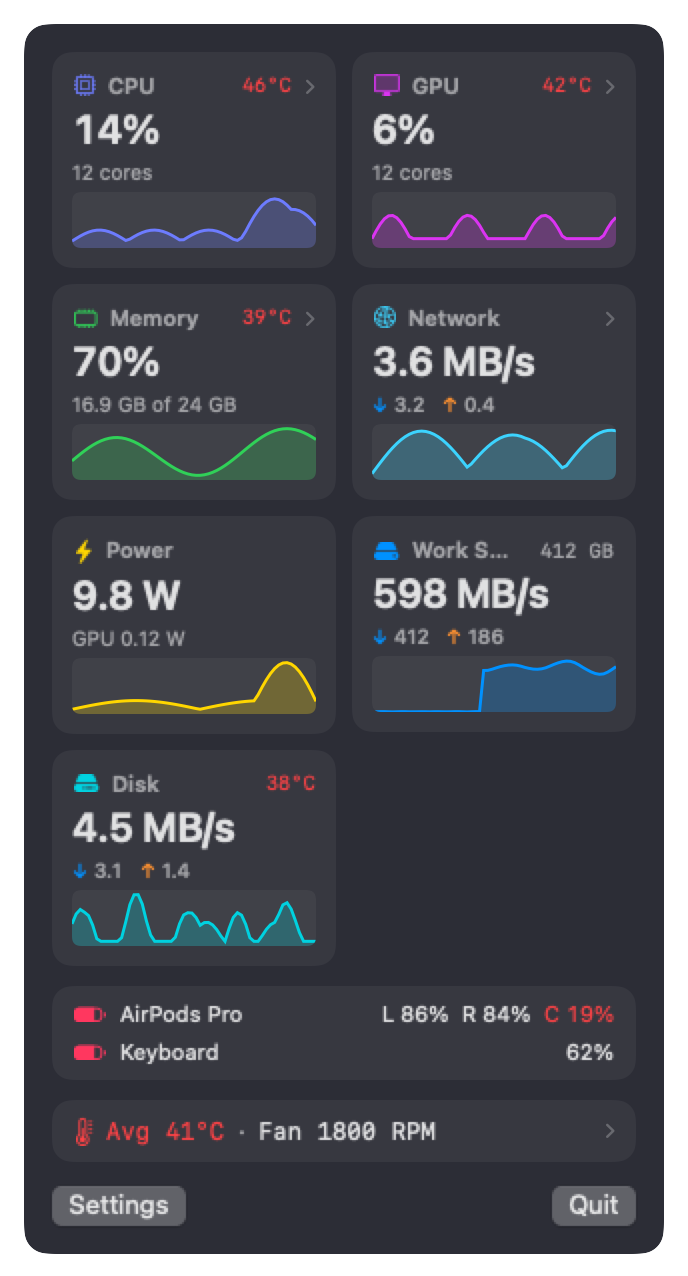
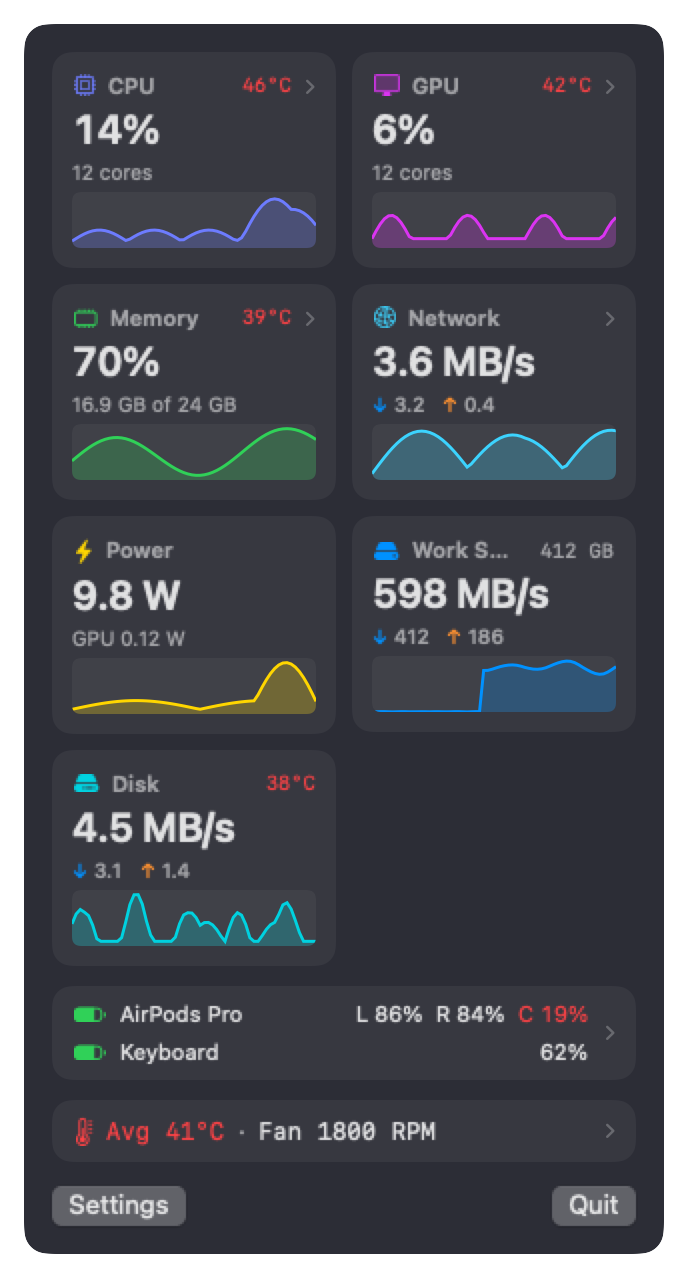
Back to the simple version: keep Network (active only), Batteries with arrow, Logitech receiver, certificate signing; Appearance experiments saved on branch appearance-experiments

Changed region(s): [[0.5494, 0.7641, 0.9157, 0.8558], [0.0916, 0.7641, 0.1526, 0.8558]]

diff --git a/Sources/SystemMonitorCore/LogitechReceiver.swift b/Sources/SystemMonitorCore/LogitechReceiver.swift
@@ -1,0 +1,117 @@
+import Foundation
+import IOKit.hid
+
+/// Battery of Logitech mice and keyboards that talk through a Logitech USB receiver (Unifying, Bolt,
+/// Lightspeed), read with Logitech's HID++ 2.0 protocol over the receiver's own interface. macOS does
+/// not list these batteries anywhere else. Opt-in (Settings > Display), because it opens the receiver.
+/// Each read pings the six pairing slots and asks a present device for its battery; it takes about a
+/// second, so call it from a background queue, never from the sampler tick.
+public enum LogitechReceiver {
+    /// Pure and testable: battery percent from a cell voltage in millivolts (single cell Li-ion curve).
+    public static func percent(fromMillivolts mv: Int) -> Int {
+        let curve: [(mv: Int, pct: Int)] = [(4186, 100), (4067, 90), (3989, 80), (3922, 70), (3859, 60),
+                                            (3811, 50), (3778, 40), (3754, 30), (3729, 20), (3691, 10),
+                                            (3615, 5), (3500, 0)]
+        if mv >= curve[0].mv { return 100 }
+        if mv <= curve[curve.count - 1].mv { return 0 }
+        for i in 1..<curve.count where mv >= curve[i].mv {
+            let hi = curve[i - 1], lo = curve[i]
+            return lo.pct + (hi.pct - lo.pct) * (mv - lo.mv) / (hi.mv - lo.mv)
+        }
+        return 0
+    }
+
+    /// What the last read did, for diagnosing a missing device: "open ok, 1 receiver, 1 device".
+    public nonisolated(unsafe) static var lastStatus = "not read yet"
+
+    private final class Inbox { var reports: [[UInt8]] = [] }
+
+    public static func batteries() -> [DeviceBattery] {
+        let manager = IOHIDManagerCreate(kCFAllocatorDefault, IOOptionBits(kIOHIDOptionsTypeNone))
+        IOHIDManagerSetDeviceMatching(manager, [kIOHIDVendorIDKey: 0x046D] as CFDictionary)
+        IOHIDManagerScheduleWithRunLoop(manager, CFRunLoopGetCurrent(), CFRunLoopMode.defaultMode.rawValue)
+        let opened = IOHIDManagerOpen(manager, IOOptionBits(kIOHIDOptionsTypeNone))
+        guard opened == kIOReturnSuccess else {
+            lastStatus = String(format: "open failed 0x%08x (macOS is probably blocking input access)", opened)
+            return []
+        }
+        guard let devices = IOHIDManagerCopyDevices(manager) as? Set<IOHIDDevice> else {
+            lastStatus = "open ok, no Logitech devices"
+            return []
+        }
+        var receivers = 0
+        defer {
+            IOHIDManagerUnscheduleFromRunLoop(manager, CFRunLoopGetCurrent(), CFRunLoopMode.defaultMode.rawValue)
+            IOHIDManagerClose(manager, IOOptionBits(kIOHIDOptionsTypeNone))
+        }
+
+        var out: [DeviceBattery] = []
+        for device in devices {
+            let page = IOHIDDeviceGetProperty(device, kIOHIDPrimaryUsagePageKey as CFString) as? Int
+            let product = IOHIDDeviceGetProperty(device, kIOHIDProductKey as CFString) as? String
+            guard page == 0xFF00, product?.contains("Receiver") == true else { continue }
+
+            receivers += 1
+            let inbox = Inbox()
+            let size = max((IOHIDDeviceGetProperty(device, kIOHIDMaxInputReportSizeKey as CFString) as? Int) ?? 20, 32)
+            let buffer = UnsafeMutablePointer<UInt8>.allocate(capacity: size)
+            defer { buffer.deallocate() }
+            let context = Unmanaged.passUnretained(inbox).toOpaque()
+            IOHIDDeviceRegisterInputReportCallback(device, buffer, size, { context, _, _, _, id, report, length in
+                guard let context else { return }
+                var bytes = [UInt8](UnsafeBufferPointer(start: report, count: length))
+                if bytes.first.map({ UInt32($0) }) != id { bytes.insert(UInt8(truncatingIfNeeded: id), at: 0) }
+                Unmanaged<Inbox>.fromOpaque(context).takeUnretainedValue().reports.append(bytes)
+            }, context)
+            IOHIDDeviceScheduleWithRunLoop(device, CFRunLoopGetCurrent(), CFRunLoopMode.defaultMode.rawValue)
+
+            /// Sends a 7 byte HID++ request and returns the matching answer (nil for errors and silence).
+            func ask(_ slot: UInt8, _ index: UInt8, _ function: UInt8, _ params: [UInt8] = []) -> [UInt8]? {
+                inbox.reports = []
+                var report: [UInt8] = [0x10, slot, index, (function << 4) | 0x05] + params
+                while report.count < 7 { report.append(0) }
+                _ = IOHIDDeviceSetReport(device, kIOHIDReportTypeOutput, 0x10, &report, report.count)
+                CFRunLoopRunInMode(.defaultMode, 0.25, false)
+                if ProcessInfo.processInfo.environment["LANES_DEBUG_HID"] != nil {
+                    print("ask slot \(slot) idx \(index) fn \(function): got \(inbox.reports.map { $0.prefix(8).map { String(format: "%02x", $0) }.joined() })")
+                }
+                return inbox.reports.first { $0.count > 6 && $0[1] == slot && $0[2] == index && $0[3] == report[3] }
+            }
+
+            for slot in UInt8(1)...UInt8(6) {
+                // An empty slot answers with an error, a present device answers the ping.
+                // (One retry: the receiver can be slow to answer the first request after it was idle.)
+                guard ask(slot, 0x00, 0x01, [0x00, 0x00, 0xAA]) != nil || ask(slot, 0x00, 0x01, [0x00, 0x00, 0xAA]) != nil
+                else { continue }
+                // Feature indexes: ask the root feature where each feature lives.
+                func feature(_ id: UInt16) -> UInt8? {
+                    guard let r = ask(slot, 0x00, 0x00, [UInt8(id >> 8), UInt8(id & 0xFF)]), r[4] != 0 else { return nil }
+                    return r[4]
+                }
+                var percent: Int?
+                if let unified = feature(0x1004), let r = ask(slot, unified, 0x01) { percent = Int(r[4]) }
+                else if let level = feature(0x1000), let r = ask(slot, level, 0x00) { percent = Int(r[4]) }
+                else if let voltage = feature(0x1001), let r = ask(slot, voltage, 0x00) {
+                    percent = Self.percent(fromMillivolts: Int(r[4]) << 8 | Int(r[5]))
+                }
+                guard let percent else { continue }
+                var name = "Logitech device"
+                if let nameFeature = feature(0x0005), let count = ask(slot, nameFeature, 0x00), count[4] > 0 {
+                    var text = [UInt8]()
+                    var offset: UInt8 = 0
+                    while offset < count[4], let chunk = ask(slot, nameFeature, 0x01, [offset]) {
+                        let part = Array(chunk[4...].prefix { $0 != 0 })
+                        if part.isEmpty { break }
+                        text += part
+                        offset = UInt8(min(255, text.count))
+                    }
+                    if !text.isEmpty { name = String(decoding: text, as: UTF8.self) }
+                }
+                out.append(DeviceBattery(name: name, parts: [("", min(100, max(0, percent)))]))
+            }
+            IOHIDDeviceUnscheduleFromRunLoop(device, CFRunLoopGetCurrent(), CFRunLoopMode.defaultMode.rawValue)
+        }
+        lastStatus = "open ok, \(receivers) receiver\(receivers == 1 ? "" : "s"), \(out.count) device\(out.count == 1 ? "" : "s") answered"
+        return out
+    }
+}

diff --git a/Sources/powermon/LogitechProbe.swift b/Sources/powermon/LogitechProbe.swift
@@ -1,0 +1,77 @@
+import Foundation
+import IOKit.hid
+
+// powermon --logitech: tries to read the battery of Logitech mice and keyboards that talk through a
+// Logitech USB receiver (Unifying, Bolt, Lightspeed) with Logitech's HID++ protocol.
+// This is a test spike: it only prints what it finds.
+
+private var received: [[UInt8]] = []
+
+private let inputCallback: IOHIDReportCallback = { _, _, _, _, reportID, report, length in
+    var bytes = [UInt8](UnsafeBufferPointer(start: report, count: length))
+    if bytes.first.map({ UInt32($0) }) != reportID { bytes.insert(UInt8(truncatingIfNeeded: reportID), at: 0) }
+    received.append(bytes)
+}
+
+func runLogitechProbe() {
+    let manager = IOHIDManagerCreate(kCFAllocatorDefault, IOOptionBits(kIOHIDOptionsTypeNone))
+    IOHIDManagerSetDeviceMatching(manager, [kIOHIDVendorIDKey: 0x046D] as CFDictionary)
+    IOHIDManagerScheduleWithRunLoop(manager, CFRunLoopGetCurrent(), CFRunLoopMode.defaultMode.rawValue)
+    let openResult = IOHIDManagerOpen(manager, IOOptionBits(kIOHIDOptionsTypeNone))
+    print("IOHIDManagerOpen:", String(format: "0x%08x", openResult), openResult == kIOReturnSuccess ? "ok" : "FAILED")
+    guard let devices = IOHIDManagerCopyDevices(manager) as? Set<IOHIDDevice> else { print("no devices"); return }
+
+    func prop(_ d: IOHIDDevice, _ key: String) -> Any? { IOHIDDeviceGetProperty(d, key as CFString) }
+    // HID++ interfaces: vendor usage pages 0xFF00 (receiver and USB devices) or 0xFF43 (BLE).
+    let hidpp = devices.filter {
+        let page = (prop($0, kIOHIDPrimaryUsagePageKey) as? Int) ?? 0
+        return page == 0xFF00 || page == 0xFF43
+    }
+    for d in hidpp {
+        print("HID++ interface:", prop(d, kIOHIDProductKey) ?? "?",
+              "page", String(format: "0x%X", (prop(d, kIOHIDPrimaryUsagePageKey) as? Int) ?? 0),
+              "usage", prop(d, kIOHIDPrimaryUsageKey) ?? "?",
+              "transport", prop(d, kIOHIDTransportKey) ?? "?",
+              "maxIn", prop(d, kIOHIDMaxInputReportSizeKey) ?? "?")
+    }
+
+    for device in hidpp {
+        guard (prop(device, kIOHIDProductKey) as? String)?.contains("Receiver") == true else { continue }
+        let maxIn = (prop(device, kIOHIDMaxInputReportSizeKey) as? Int) ?? 20
+        let buffer = UnsafeMutablePointer<UInt8>.allocate(capacity: max(maxIn, 32))
+        IOHIDDeviceRegisterInputReportCallback(device, buffer, max(maxIn, 32), inputCallback, nil)
+        IOHIDDeviceScheduleWithRunLoop(device, CFRunLoopGetCurrent(), CFRunLoopMode.defaultMode.rawValue)
+
+        func send(_ device: IOHIDDevice, _ bytes: [UInt8]) -> [UInt8]? {
+            received = []
+            var report = bytes
+            _ = IOHIDDeviceSetReport(device, kIOHIDReportTypeOutput, CFIndex(bytes[0]), &report, report.count)
+            CFRunLoopRunInMode(.defaultMode, 0.4, false)
+            return received.first { $0.count > 4 && $0[1] == bytes[1] && $0[2] != 0x8f && $0[3] != 0x8f }
+        }
+        func hex(_ b: [UInt8]) -> String { b.map { String(format: "%02x", $0) }.joined(separator: " ") }
+
+        for slot in 1...6 {
+            // HID++ 2.0 ping first: slots with no device answer with an error (0x8f).
+            guard let ping = send(device, [0x10, UInt8(slot), 0x00, 0x15, 0x00, 0x00, 0xAA]), ping.count > 4, ping[2] == 0x00 else { continue }
+            print("slot \(slot): device answers HID++ \(ping[4]).\(ping[5])")
+            // Which feature index is the battery? Try unified battery (0x1004), battery level (0x1000), voltage (0x1001).
+            for (feature, name) in [(UInt16(0x1004), "unified battery"), (0x1000, "battery level"), (0x1001, "battery voltage")] {
+                guard let r = send(device, [0x10, UInt8(slot), 0x00, 0x05, UInt8(feature >> 8), UInt8(feature & 0xFF), 0x00]),
+                      r.count > 4, r[2] == 0x00, r[4] != 0 else { continue }
+                let index = r[4]
+                // Function 1 (getStatus) of unified battery; function 0 of battery level.
+                let function: UInt8 = feature == 0x1004 ? 0x15 : 0x05
+                if let status = send(device, [0x10, UInt8(slot), index, function, 0x00, 0x00, 0x00]), status.count > 6 {
+                    print("  \(name) (feature index \(index)): \(hex(status))")
+                    switch feature {
+                    case 0x1004, 0x1000: print("  -> battery \(status[4])%")
+                    default: print("  -> voltage \(Int(status[4]) << 8 | Int(status[5])) mV")
+                    }
+                    break
+                }
+            }
+        }
+    }
+    print("done (if every send failed or nothing answered, macOS is not letting this app talk to the receiver)")
+}

diff --git a/Sources/SystemMonitorApp/Monitor.swift b/Sources/SystemMonitorApp/Monitor.swift
@@ -1,5 +1,6 @@
 import SwiftUI
 import Combine
+import IOKit.hid
 import SystemMonitorCore
 
 struct DriveSample {
@@ -58,6 +59,10 @@ final class Monitor: ObservableObject {
     /// Keyboard and mouse batteries from `BLEBatteryReader` (opt-in), refreshed about once a minute
     /// while the Batteries item is shown.
     @Published private(set) var bleBatteries: [DeviceBattery] = []
+    /// Logitech mice and keyboards on a USB receiver (HID++), read on a background queue.
+    @Published private(set) var logitechBatteries: [DeviceBattery] = []
+    /// What the last Logitech read did; Settings shows a hint when macOS blocked it.
+    @Published private(set) var logitechStatus = ""
     private let bleReader = BLEBatteryReader()
     private var bleTimer: Timer?
 
@@ -65,6 +70,7 @@ final class Monitor: ObservableObject {
     func updateBLEReading() {
         let wanted = settings.readBluetoothBatteries && (settings.menuBarItems.union(settings.panelItems)).contains(.devices)
         if wanted, bleTimer == nil {
+            _ = IOHIDRequestAccess(kIOHIDRequestTypeListenEvent)   // makes macOS show its Input Monitoring prompt
             readBLE()
             bleTimer = Timer.scheduledTimer(withTimeInterval: 60, repeats: true) { [weak self] _ in
                 Task { @MainActor in self?.readBLE() }
@@ -74,11 +80,21 @@ final class Monitor: ObservableObject {
             bleTimer = nil
             bleReader.stop()
             bleBatteries = []
+            logitechBatteries = []
         }
     }
 
     private func readBLE() {
         bleReader.read { [weak self] devices in self?.bleBatteries = devices }
+        DispatchQueue.global(qos: .utility).async { [weak self] in
+            let found = LogitechReceiver.batteries()   // about a second; never on the sampler queue
+            let status = LogitechReceiver.lastStatus
+            DispatchQueue.main.async {
+                self?.logitechBatteries = found
+                self?.logitechStatus = status
+                UserDefaults.standard.set(status, forKey: "lastLogitechRead")   // readable with `defaults read`
+            }
+        }
     }
 
     private let sampler: Sampler?
@@ -144,7 +160,8 @@ final class Monitor: ObservableObject {
     /// Apple-listed devices plus, if switched on, keyboards and mice read over Bluetooth LE.
     var deviceBatteries: [DeviceBattery] {
         let known = Set(state.deviceBatteries.map(\.name))
-        return (state.deviceBatteries + bleBatteries.filter { !known.contains($0.name) }).sorted { $0.name < $1.name }
+        return (state.deviceBatteries + (bleBatteries + logitechBatteries).filter { !known.contains($0.name) })
+            .sorted { $0.name < $1.name }
     }
     var laptopBattery: LaptopBattery? { state.laptopBattery }
     var sensors: [SensorReading] { state.sensors }
@@ -155,6 +172,15 @@ final class Monitor: ObservableObject {
     var smart: [String: SmartStatus] { state.smart }
     var networkDown: Double { state.network.reduce(0) { $0 + $1.downMBps } }
     var networkUp: Double { state.network.reduce(0) { $0 + $1.upMBps } }
+
+    /// The connections worth showing: those that moved data in the last minute, else the first (usually
+    /// Wi-Fi). Idle ones (Thunderbolt ports, adapters) are hidden.
+    var activeNetwork: [NetworkRate] {
+        let moved = state.network.filter { rate in
+            (state.networkHistory[rate.bsdName] ?? []).contains { $0.read + $0.write > 0.01 }
+        }
+        return moved.isEmpty ? Array(state.network.prefix(1)) : moved
+    }
 
     /// External drives that are connected and not switched off in settings.
     var externalDrives: [DriveRate] {

diff --git a/Sources/SystemMonitorApp/PanelView.swift b/Sources/SystemMonitorApp/PanelView.swift
@@ -108,14 +108,17 @@ struct PanelView: View {
 
     /// The Mac's own battery (laptops) and connected Bluetooth devices with a battery.
     private var batteriesStrip: some View {
-        VStack(alignment: .leading, spacing: 5) {
-            if let battery = monitor.laptopBattery {
-                batteryRow("This Mac", [("", battery.percent)],
-                           note: battery.isCharging ? "charging" : (battery.onPower ? "on power" : ""))
+        HStack(alignment: .center, spacing: 6) {
+            VStack(alignment: .leading, spacing: 5) {
+                if let battery = monitor.laptopBattery {
+                    batteryRow("This Mac", [("", battery.percent)],
+                               note: battery.isCharging ? "charging" : (battery.onPower ? "on power" : ""))
+                }
+                ForEach(monitor.deviceBatteries, id: \.name) { device in
+                    batteryRow(device.name, device.parts.map { ($0.label, $0.percent) }, note: "")
+                }
             }
-            ForEach(monitor.deviceBatteries, id: \.name) { device in
-                batteryRow(device.name, device.parts.map { ($0.label, $0.percent) }, note: "")
-            }
+            Image(systemName: "chevron.right").font(.system(size: 8, weight: .bold)).foregroundStyle(.tertiary)
         }
         .padding(.horizontal, 10).padding(.vertical, 7)
         .frame(maxWidth: .infinity, alignment: .leading)
@@ -466,7 +469,7 @@ struct PanelView: View {
             if monitor.network.isEmpty {
                 Text("No active connection").foregroundStyle(.secondary)
             }
-            ForEach(monitor.network, id: \.bsdName) { connection in
+            ForEach(monitor.activeNetwork, id: \.bsdName) { connection in
                 let samples = monitor.networkHistory[connection.bsdName] ?? []
                 VStack(alignment: .leading, spacing: 4) {
                     HStack {
@@ -486,6 +489,10 @@ struct PanelView: View {
                 }
                 .padding(8)
                 .background(Color.primary.opacity(0.06), in: RoundedRectangle(cornerRadius: 8))
+            }
+            let hidden = monitor.network.count - monitor.activeNetwork.count
+            if hidden > 0 {
+                Text("\(hidden) idle connection\(hidden == 1 ? "" : "s") hidden").font(.caption).foregroundStyle(.secondary)
             }
         }
     }

diff --git a/Sources/SystemMonitorApp/SettingsView.swift b/Sources/SystemMonitorApp/SettingsView.swift
@@ -83,9 +83,19 @@ struct SettingsView: View {
                 SettingsRow(title: "Keyboard and mouse batteries") {
                     Toggle("", isOn: $settings.readBluetoothBatteries).toggleStyle(.checkbox).labelsHidden()
                 }
-                Text("Reads Logitech and other Bluetooth keyboards and mice. macOS asks for Bluetooth access the first time.")
+                Text("Reads Logitech and other Bluetooth keyboards and mice, including ones on a Logitech USB receiver. macOS may ask for Bluetooth or input access the first time.")
                     .font(.caption).foregroundStyle(.secondary)
-                    .fixedSize(horizontal: false, vertical: true).padding(.bottom, 8)
+                    .fixedSize(horizontal: false, vertical: true).padding(.bottom, monitor.logitechStatus.hasPrefix("open failed") ? 2 : 8)
+                if monitor.logitechStatus.hasPrefix("open failed") {
+                    HStack {
+                        Text("Mouse blocked: allow Lanes under Input Monitoring.").font(.caption).foregroundStyle(.orange)
+                        Spacer()
+                        Button("Open") {
+                            NSWorkspace.shared.open(URL(string: "x-apple.systempreferences:com.apple.preference.security?Privacy_ListenEvent")!)
+                        }
+                    }
+                    .padding(.bottom, 8)
+                }
                 Divider()
                 SettingsRow(title: "Menu bar style") {
                     Picker("", selection: menuBarStyle) {

diff --git a/Sources/powermon/main.swift b/Sources/powermon/main.swift
@@ -57,8 +57,14 @@ if args.contains("--memory") {
     exit(0)
 }
 
+if args.contains("--logitech") {
+    runLogitechProbe()
+    exit(0)
+}
+
 if args.contains("--batteries") {
     print("Bluetooth:", DeviceBatteries.bluetooth().map { "\($0.name) \($0.parts)" })
+    print("Logitech receiver:", LogitechReceiver.batteries().map { "\($0.name) \($0.parts)" })
     print("Laptop:", DeviceBatteries.laptop().map { "\($0)" } ?? "none")
     exit(0)
 }

diff --git a/CHANGELOG.md b/CHANGELOG.md
@@ -12,14 +12,14 @@ New interface
 - Settings is simpler: icon buttons for what shows in the menu bar and the panel, grouped Display and General sections, one `Off | °C | °F` control, and a separate page for the chip choice and definitions.
 
 More in this release
-- Network: download and upload per connection (Wi-Fi, Ethernet), with a tile, a page with a graph per connection, and a menu bar cell.
+- Network: download and upload for the connections in use (Wi-Fi, Ethernet; idle ones are hidden), with a tile, a page with a graph per connection, and a menu bar cell.
 - Drives show free space on the tile, and a red "SMART" warning if macOS reports a drive failing.
-- Batteries: the Mac's own battery on laptops and connected Bluetooth devices (AirPods, mouse, keyboard) in one strip; click it for a page with a bar for every part (left, right, case).
+- Batteries: the Mac's own battery on laptops and connected Bluetooth devices (AirPods, mouse, keyboard) in one strip with an arrow; click it for a page with a bar for every part (left, right, case).
 - Busiest apps by CPU on the CPU page and by memory on the Memory page (read only while that page is open).
 - Sensors page (click the Avg temp strip): every temperature, fan, power, voltage and current reading the Mac offers, and a warning when macOS is throttling.
 - Menu bar style: Names, Icons or Meters (small bars for memory, CPU and GPU), with red temperatures, a switch for temperatures in the menu bar, and steady widths so the bar does not bounce.
 - Graph hover: hover a graph on a page to see the exact value and how long ago.
-- Settings: type what Activity Monitor shows and "Calibrate" corrects Memory used for that Mac (Reset undoes it). Optional "Keyboard and mouse batteries" reads Bluetooth LE devices such as the Logitech MX Keys (macOS asks for Bluetooth access; Logitech mice on a USB receiver cannot be read).
+- Settings: type what Activity Monitor shows and "Calibrate" corrects Memory used for that Mac (Reset undoes it). Optional "Keyboard and mouse batteries" reads Bluetooth LE devices such as the Logitech MX Keys and Logitech mice on a USB receiver (HID++); macOS may ask for Bluetooth or input access.
 - Settings: "Check accuracy" compares the memory numbers with vm_stat; the GPU tile shows the GPU core count; Memory page shows compressed memory over time.
 
 New features
